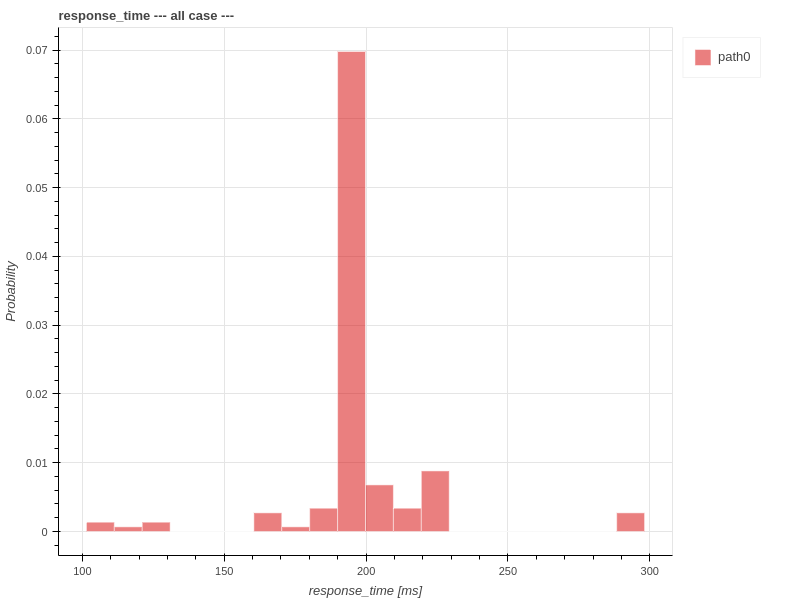
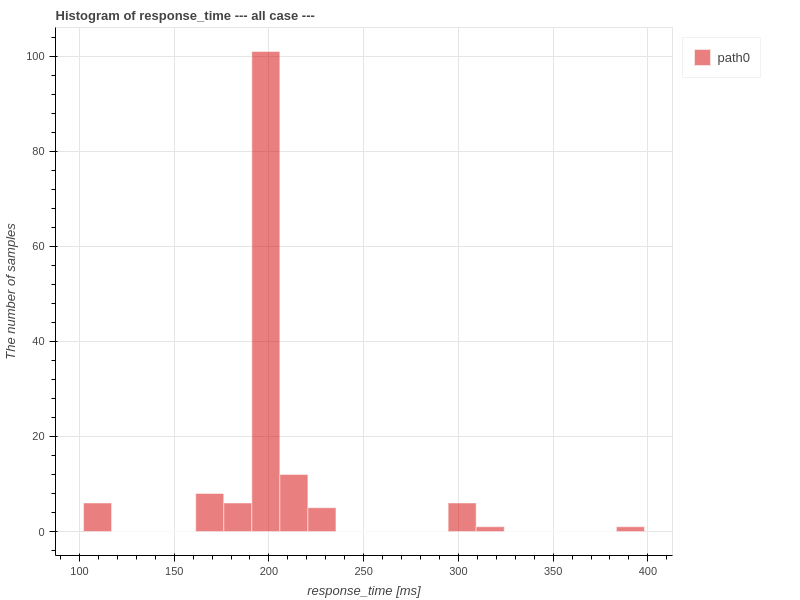
fix: x-axis of histogram probability to the number of samples

diff --git a/docs/visualization/frequency/index.md b/docs/visualization/frequency/index.md
@@ -57,7 +57,7 @@ plot.show()
 
 ![callback_frequency_histogram](../../imgs/callback_frequency_histogram.png)
 
-The horizontal axis means frequency, labeled as `frequency [Hz]`. The vertical axis is the probability of execution at that frequency, labeled `probability`.
+The horizontal axis is frequency, labeled as `frequency [Hz]`. The vertical axis is the number of samples executed in that frequency, labeled as `The number of samples`.
 
 ## Communication
 
@@ -102,7 +102,7 @@ plot.show()
 
 ![communication_frequency_histogram](../../imgs/communication_frequency_histogram.png)
 
-The horizontal axis means frequency, labeled as `frequency [Hz]`. The vertical axis is the probability of execution at that frequency, labeled `probability`.
+The horizontal axis is frequency, labeled as `frequency [Hz]`. The vertical axis is the number of samples executed in that frequency, labeled as `The number of samples`.
 
 ## Publish and Subscription
 

diff --git a/docs/visualization/period/index.md b/docs/visualization/period/index.md
@@ -57,7 +57,7 @@ plot.show()
 
 ![callback_period_histogram](../../imgs/callback_period_histogram.png)
 
-The horizontal axis means period, labeled as `period [ms]`. The vertical axis is the probability of execution at that period, labeled `probability`.
+The horizontal axis is period, labeled as `period [Hz]`. The vertical axis is the number of samples executed in that period, labeled as `The number of samples`.
 
 ## Communication
 
@@ -102,7 +102,7 @@ plot.show()
 
 ![communication_period_histogram](../../imgs/communication_period_histogram.png)
 
-The horizontal axis means period, labeled as `period [ms]`. The vertical axis is the probability of execution at that period, labeled `probability`.
+The horizontal axis is period, labeled as `period [Hz]`. The vertical axis is the number of samples executed in that period, labeled as `The number of samples`.
 
 ## Publish and Subscription
 

diff --git a/docs/visualization/latency/index.md b/docs/visualization/latency/index.md
@@ -56,7 +56,7 @@ plot.show()
 
 ![callback_latency_histogram](../../imgs/callback_latency_histogram.png)
 
-The horizontal axis means latency, labeled as `Latency [ms]`. The vertical axis is the probability of execution at that latency, labeled `probability`.
+The horizontal axis is latency, labeled as `latency [Hz]`. The vertical axis is the number of samples executed in that latency, labeled as `The number of samples`.
 
 ## Communication
 
@@ -108,4 +108,4 @@ plot.show()
 
 ![communication_latency_histogram](../../imgs/communication_latency_histogram.png)
 
-The horizontal axis means latency, labeled as `Latency [ms]`. The vertical axis is the probability of execution at that latency, labeled `probability`.
+The horizontal axis is latency, labeled as `latency [Hz]`. The vertical axis is the number of samples executed in that latency, labeled as `The number of samples`.

diff --git a/docs/visualization/path/response_time.md b/docs/visualization/path/response_time.md
@@ -38,7 +38,7 @@ path = app.get_path('target_path')
 
 ## Histogram
 
-The following scripts generate histograms of response time. Horizontal axis of the histograms means response time, labeled `Response Time [ms]` and vertical axis of the histograms means `Probability`.
+The following scripts generate histograms of response time. Horizontal axis of the histograms means response time, labeled `response time [ms]` and vertical axis of the histograms means `The number of samples`.
 
 ```python
 # plot all case
